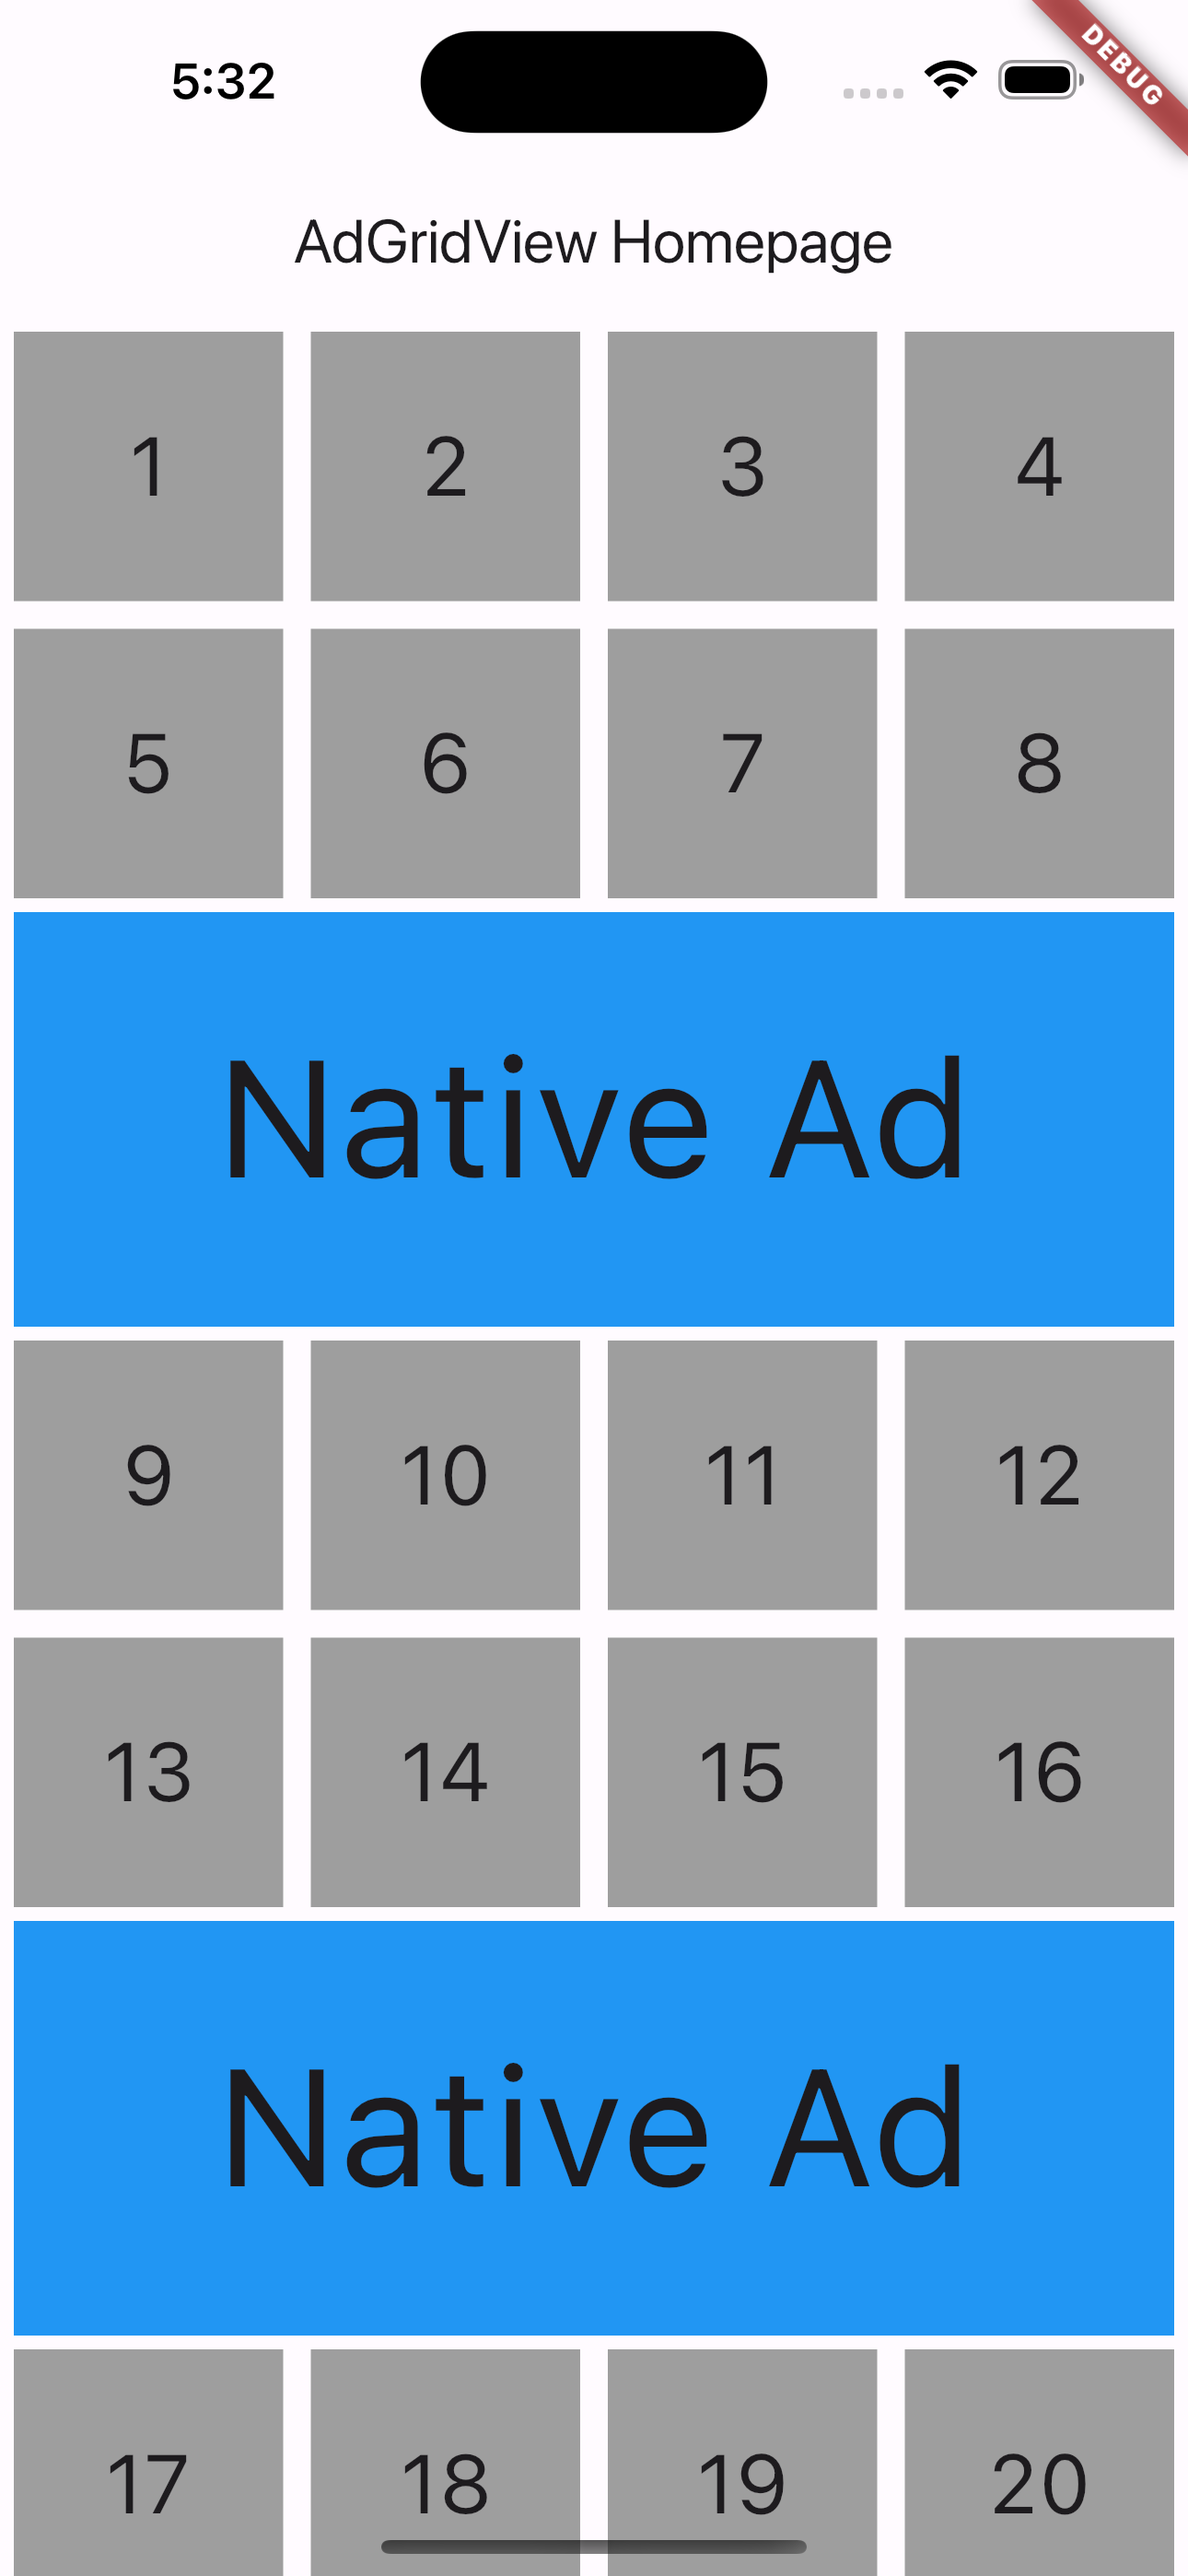
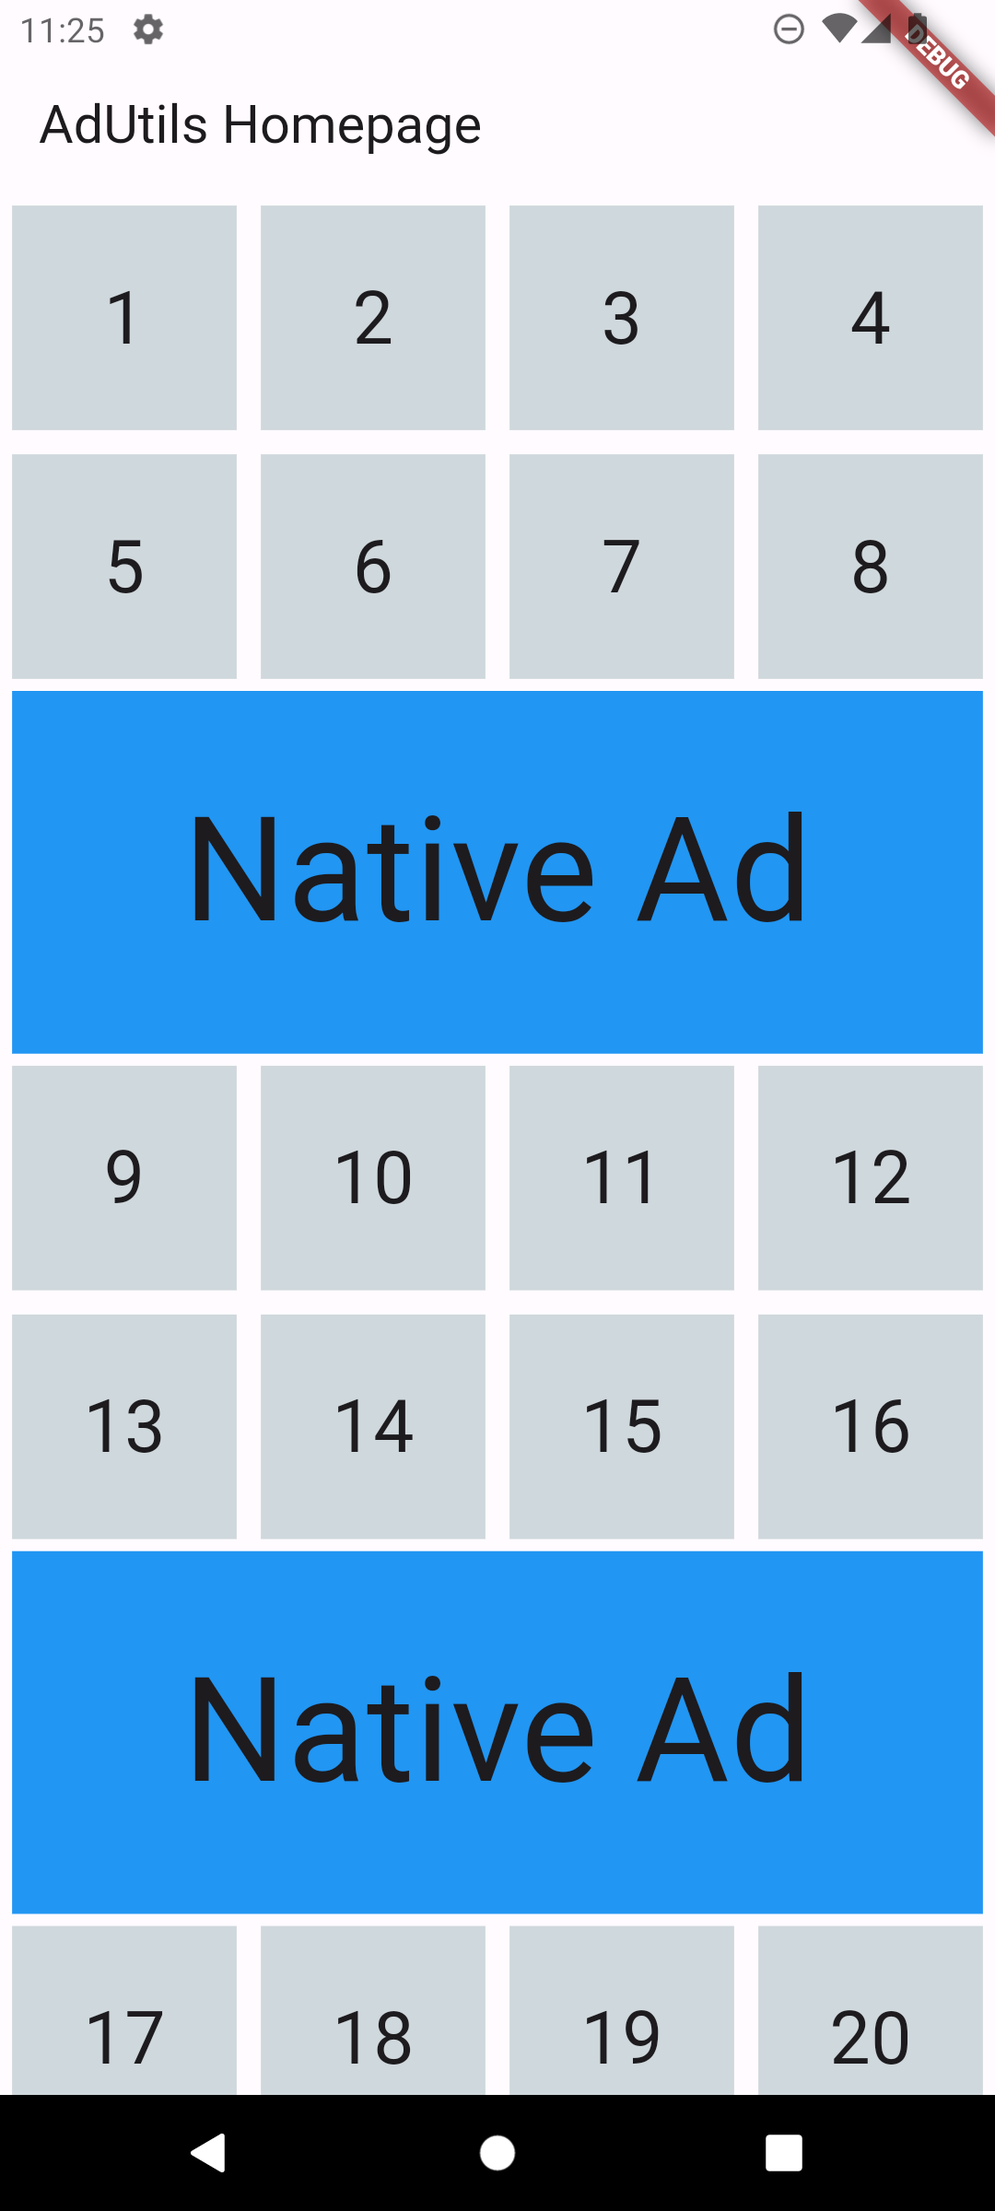
custom gridview

diff --git a/lib/ad_utils.dart b/lib/ad_utils.dart
@@ -1,20 +1,20 @@
-library ad_gridview;
+library ad_utils;
 
 import 'package:flutter/material.dart';
 import 'package:flutter_staggered_grid_view/flutter_staggered_grid_view.dart';
 
 /// A widget that displays a grid view with advertisements at specific intervals.
 ///
-/// The [AdGridView] widget is designed to display a grid view of items with advertisements inserted
-/// at regular intervals or custom positions. It supports three types of grid layouts: [AdGridViewType.once],
-/// [AdGridViewType.repeated], and [AdGridViewType.custom].
-enum AdGridViewType { once, repeated, custom }
+/// The [AdUtils] widget is designed to display a grid view of items with advertisements inserted
+/// at regular intervals or custom positions. It supports three types of grid layouts: [AdUtilsType.once],
+/// [AdUtilsType.repeated], and [AdUtilsType.custom].
+enum AdUtilsType { once, repeated, custom }
 
 ///
 /// The [padding], [physics], [controller], [customAdIndex], [itemMainAspectRatio] parameters
 /// allow further customization of the grid view.
-class AdGridView extends StatelessWidget {
-  /// Creates a [AdGridView] widget.
+class AdUtils extends StatelessWidget {
+  /// Creates a [AdUtils] widget.
   ///
   /// The [crossAxisCount] parameter specifies the number of items in each row.
   ///
@@ -26,11 +26,11 @@ class AdGridView extends StatelessWidget {
   ///
   /// The [itemWidget] parameter is a callback function that builds the widgets for grid items.
   ///
-  /// The [adGridViewType] parameter specifies the type of grid layout to use:
-  ///   - [AdGridViewType.once] adds a single advertisement at the specified index.
-  ///   - [AdGridViewType.repeated] adds advertisements at regular intervals.
-  ///   - [AdGridViewType.custom] allows customizing the positions of advertisements.
-  const AdGridView({
+  /// The [adUtilsType] parameter specifies the type of grid layout to use:
+  ///   - [AdUtilsType.once] adds a single advertisement at the specified index.
+  ///   - [AdUtilsType.repeated] adds advertisements at regular intervals.
+  ///   - [AdUtilsType.custom] allows customizing the positions of advertisements.
+  const AdUtils({
     this.padding,
     this.physics,
     this.controller,
@@ -41,13 +41,13 @@ class AdGridView extends StatelessWidget {
     required this.adIndex,
     required this.adWidget,
     required this.itemWidget,
-    this.adGridViewType = AdGridViewType.once,
+    this.adUtilsType = AdUtilsType.once,
     Key? key,
   }) : super(key: key);
 
   final List customAdIndex;
   final ScrollController? controller;
-  final AdGridViewType adGridViewType;
+  final AdUtilsType adUtilsType;
   final EdgeInsetsGeometry? padding;
   final ScrollPhysics? physics;
   final double? itemMainAspectRatio;
@@ -68,7 +68,7 @@ class AdGridView extends StatelessWidget {
     }
 
     List indexList = [];
-    if (AdGridViewType.repeated == adGridViewType) {
+    if (AdUtilsType.repeated == adUtilsType) {
       /// for Repeated
       int j = 0;
       for (int i = 0; i < itemCount; i++) {
@@ -79,10 +79,11 @@ class AdGridView extends StatelessWidget {
           j = 0;
         }
       }
-    } else if (AdGridViewType.custom == adGridViewType) {
+    } else if (AdUtilsType.custom == adUtilsType) {
       /// for Custom
       if (customAdIndex.isEmpty) {
-        throw Exception('You are using AdGridViewType.custom so provide a List<index> in customAdIndex parameter');
+        throw Exception(
+            'You are using AdUtilsType.custom so provide a List<index> in customAdIndex parameter');
       }
       List _customAdIndex = customAdIndex;
       int j = 0;
@@ -98,7 +99,7 @@ class AdGridView extends StatelessWidget {
       }
     }
 
-    return AdGridViewType.once == adGridViewType
+    return AdUtilsType.once == adUtilsType
         ? SingleChildScrollView(
             controller: controller,
             physics: physics,
@@ -109,11 +110,16 @@ class AdGridView extends StatelessWidget {
                 _itemCount,
                 (index) {
                   return index == (crossAxisCount * adIndex)
-                      ? StaggeredGridTile.fit(crossAxisCellCount: crossAxisCount, child: adWidget)
+                      ? StaggeredGridTile.fit(
+                          crossAxisCellCount: crossAxisCount, child: adWidget)
                       : StaggeredGridTile.count(
                           crossAxisCellCount: 1,
                           mainAxisCellCount: itemMainAspectRatio! * 1,
-                          child: itemWidget(context, index < (crossAxisCount * adIndex) ? index : (index - 1)),
+                          child: itemWidget(
+                              context,
+                              index < (crossAxisCount * adIndex)
+                                  ? index
+                                  : (index - 1)),
                         );
                 },
               ),
@@ -129,7 +135,8 @@ class AdGridView extends StatelessWidget {
                 indexList.length,
                 (index) {
                   return indexList[index] == "ad"
-                      ? StaggeredGridTile.fit(crossAxisCellCount: crossAxisCount, child: adWidget)
+                      ? StaggeredGridTile.fit(
+                          crossAxisCellCount: crossAxisCount, child: adWidget)
                       : StaggeredGridTile.count(
                           crossAxisCellCount: 1,
                           mainAxisCellCount: itemMainAspectRatio! * 1,

diff --git a/README.md b/README.md
@@ -1,4 +1,4 @@
-# ad_gridview
+# ad_utils
 
 A Flutter Widget to easily show Native Ad or any other Widget in between a GridView.
 
@@ -15,16 +15,16 @@ To use this package, add ad_gridview as a dependency in your pubspec.yaml file.
 ```
 dependencies:
   ...
-  ad_gridview: <latest_version>
+  ad_utils: <latest_version>
 ```
 In your library add the following import:
 ```
-import 'package:ad_gridview/ad_gridview.dart';
+import 'package:ad_utils/ad_utils.dart';
 ```
 ## Usage
 
 ```dart
-    AdGridView(crossAxisCount: crossAxisCount,
+    AdUtils(crossAxisCount: crossAxisCount,
 itemCount: itemCount,
 adIndex: adIndex,
 adWidget: adWidget,

diff --git a/CHANGELOG.md b/CHANGELOG.md
@@ -1,20 +1,3 @@
 ## 0.0.1
 
 * initial release.
-
-## 0.0.2
-
-* SDK Changes
-
-## 0.0.3
-
-* Added itemMainAspectRatio
-
-## 0.0.4
-
-* Added AdGridView Types 
-
-## 0.0.5
-
-* Added AdGridView 3rd Type AdGridViewType.custom
-* Added ScrollController
